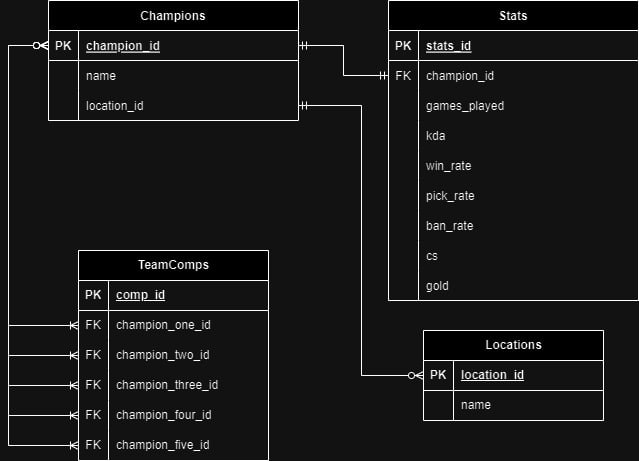
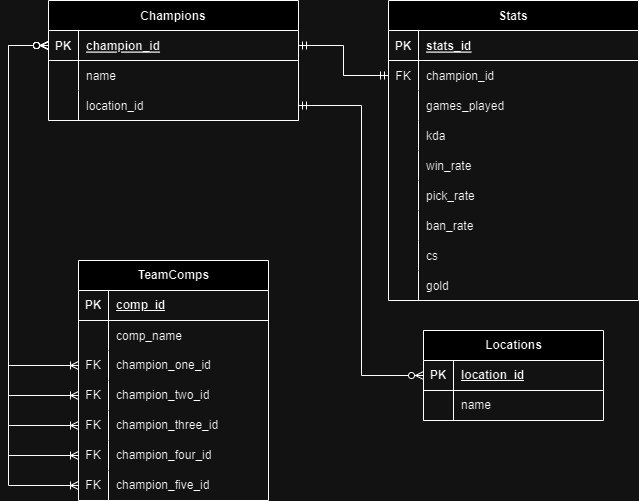
Added another updated erd and added comp_name column to TeamComp table and added validation to it.

diff --git a/db/schema.rb b/db/schema.rb
@@ -10,7 +10,7 @@
 #
 # It's strongly recommended that you check this file into your version control system.
 
-ActiveRecord::Schema[7.0].define(version: 2023_10_11_024531) do
+ActiveRecord::Schema[7.0].define(version: 2023_10_11_044012) do
   create_table "champions", force: :cascade do |t|
     t.string "name"
     t.datetime "created_at", null: false
@@ -41,6 +41,7 @@ ActiveRecord::Schema[7.0].define(version: 2023_10_11_024531) do
     t.integer "champion_five_id", null: false
     t.datetime "created_at", null: false
     t.datetime "updated_at", null: false
+    t.string "comp_name"
     t.index ["champion_five_id"], name: "index_team_comps_on_champion_five_id"
     t.index ["champion_four_id"], name: "index_team_comps_on_champion_four_id"
     t.index ["champion_one_id"], name: "index_team_comps_on_champion_one_id"

diff --git a/app/models/team_comp.rb b/app/models/team_comp.rb
@@ -1,4 +1,6 @@
 class TeamComp < ApplicationRecord
+  validates :comp_name, presence: true, uniqueness: true
+
   belongs_to :champion_one
   belongs_to :champion_two
   belongs_to :champion_three

diff --git a/db/migrate/20231011044012_add_comp_name_to_team_comps.rb b/db/migrate/20231011044012_add_comp_name_to_team_comps.rb
@@ -1,0 +1,5 @@
+class AddCompNameToTeamComps < ActiveRecord::Migration[7.0]
+  def change
+    add_column :team_comps, :comp_name, :string
+  end
+end
